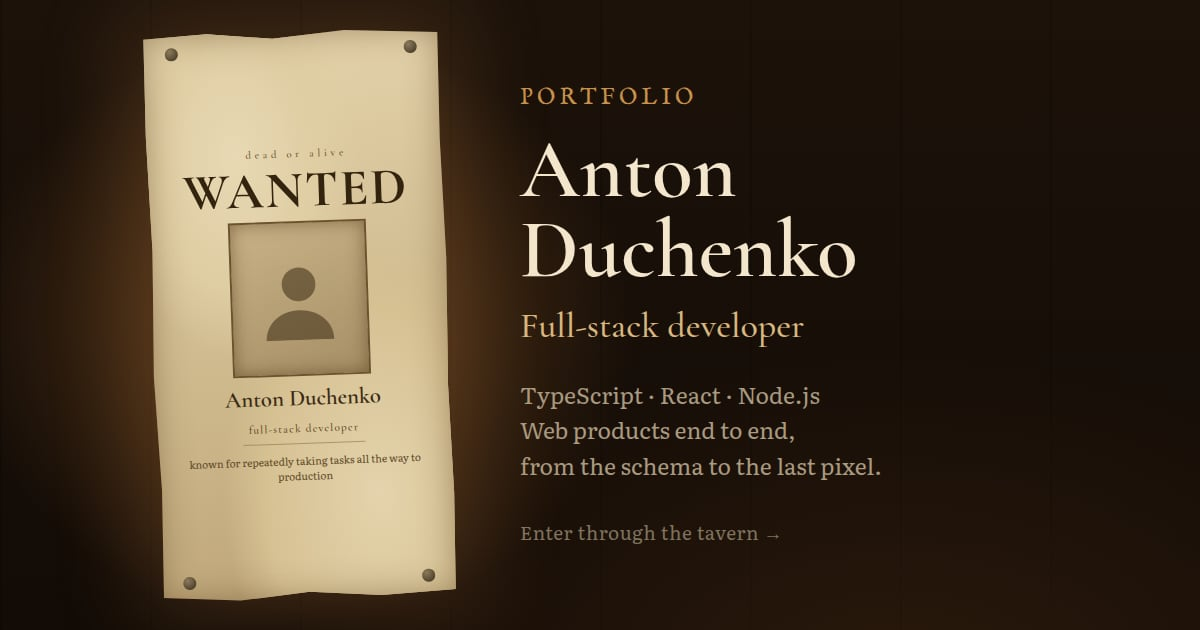
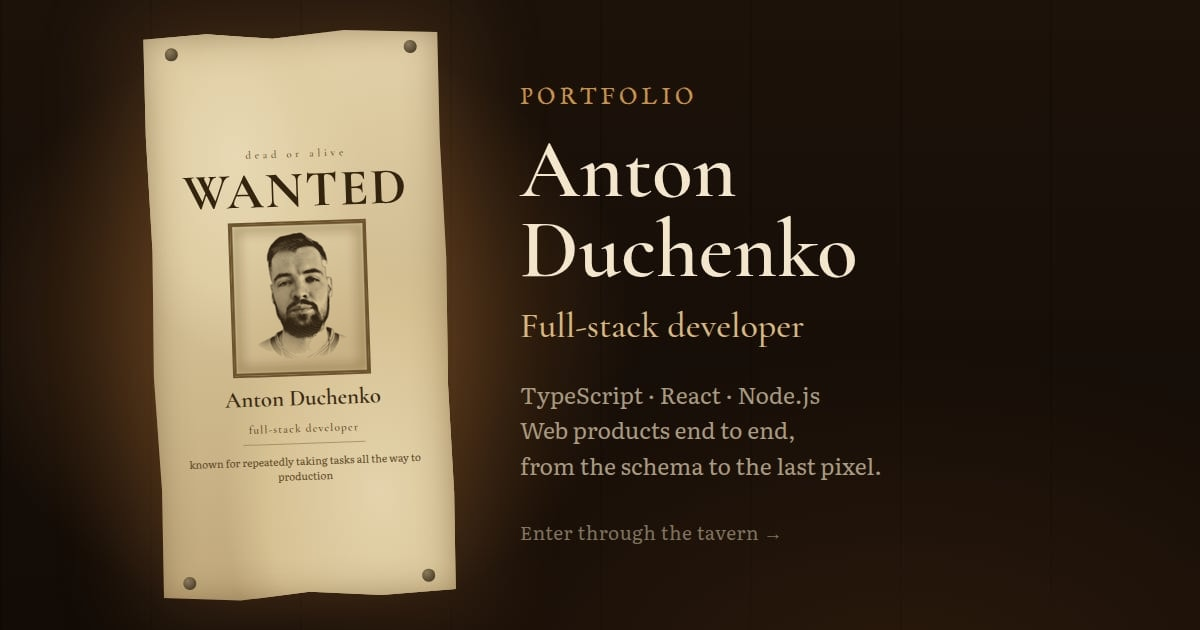
Engrave the WANTED portrait from Anton's photo (poster, hero frame, link preview); drop the pull-request count from the Binary Studio entry

Changed region(s): [[0.185, 0.3317, 0.3083, 0.6032]]

diff --git a/index.html b/index.html
@@ -155,12 +155,8 @@
       <div id="poster">
         <div class="top">dead or alive</div>
         <p class="title">WANTED</p>
-        <div class="face">
-          <svg viewBox="0 0 64 64" fill="#3a2a14" aria-hidden="true">
-            <circle cx="32" cy="21" r="13"/>
-            <path d="M6 64c0-14 12-23 26-23s26 9 26 23z"/>
-          </svg>
-        </div>
+        <!-- engraved from a photo by scripts/portrait/engrave.mjs; the photo itself is not published -->
+        <div class="face"><img src="portrait.webp" alt="" decoding="async"></div>
         <p class="name">Anton Duchenko</p>
         <p class="role">full-stack developer</p>
         <div class="rule"></div>
@@ -244,9 +240,7 @@
      </div>
     <!-- the poster's sketch, carried over from the scene -->
     <figure class="mugshot" aria-hidden="true">
-      <div class="frame">
-        <svg viewBox="0 0 64 64"><circle cx="32" cy="21" r="13"/><path d="M6 64c0-14 12-23 26-23s26 9 26 23z"/></svg>
-      </div>
+      <div class="frame"><img src="portrait.webp" alt="" decoding="async"></div>
       <figcaption>Last seen shipping to production</figcaption>
     </figure>
     </div>
@@ -328,7 +322,6 @@
           <p class="when">Aug 2025 — now</p>
           <h3>Full-stack developer <span>· Binary Studio</span></h3>
           <ul>
-            <li>290+ pull requests across ~280 tickets in a team of ~10 — the second-highest contributor.</li>
             <li>Rebuilt the multi-step checkout: price and margin sync with change confirmation, Stripe PaymentIntent recalculation, live stock checks before payment, coupons and partial refunds reflected in invoices.</li>
             <li>Algolia search for products, pharmacies and FAQ, with change-gated sync and Inngest reindex jobs.</li>
             <li>Logistics: same-day courier delivery, DHL shipments and labels, order tracking, click and collect, SMS notifications.</li>

diff --git a/src/site/site.css b/src/site/site.css
@@ -82,9 +82,9 @@ body.landed .candlelight.on{opacity:1;animation:glow 3.2s ease-in-out infinite a
   display:grid;grid-template-columns:minmax(0,1fr) auto;gap:clamp(30px,5vw,80px);align-items:center}
 /* the poster's portrait, carried over from the scene */
 .mugshot{margin:0;width:clamp(220px,22vw,320px);transform:rotate(1.6deg)}
-.mugshot .frame{aspect-ratio:1/1.12;display:grid;place-items:center;border:6px double rgba(91,68,39,.75);
-  background:linear-gradient(160deg,#cdb68a,#a89067);box-shadow:inset 0 0 40px rgba(70,45,15,.55),0 18px 30px rgba(70,45,15,.25)}
-.mugshot svg{width:60%;fill:#3a2a14;opacity:.55}
+.mugshot .frame{aspect-ratio:1/1.12;overflow:hidden;border:6px double rgba(91,68,39,.75);
+  background:linear-gradient(160deg,#e2d1a8,#c9b285);box-shadow:inset 0 0 40px rgba(70,45,15,.4),0 18px 30px rgba(70,45,15,.25)}
+.mugshot img{display:block;width:100%;height:100%}             /* the poster's engraving, same file */
 .mugshot figcaption{margin-top:12px;text-align:center;font-family:var(--fell);font-size:15px;letter-spacing:.08em;color:var(--ink-soft)}
 .sheet .kicker{font-family:var(--fell);font-size:clamp(15px,1.8vw,20px);letter-spacing:.2em;color:var(--ink-soft);margin:0 0 10px}
 h1.name{font-family:var(--display);font-weight:700;font-size:clamp(54px,8.6vw,132px);line-height:.9;

diff --git a/src/styles.css b/src/styles.css
@@ -111,9 +111,10 @@ input[type=range]{width:100%;height:16px;margin:0;accent-color:#c98a3c;backgroun
 #poster .title{font-size:9cqh;font-weight:700;letter-spacing:.04em;margin:0;line-height:.86;
   color:#33240f;text-shadow:0 1px 0 rgba(255,245,220,.5)}
 #poster .face{width:52%;aspect-ratio:1/1.12;border:.5cqh solid #6b5330;
-  background:linear-gradient(160deg,#c9b287,#a68f66);display:grid;place-items:center;
-  box-shadow:inset 0 0 3cqh rgba(70,45,15,.5)}
-#poster .face svg{width:62%;opacity:.55}
+  background:linear-gradient(160deg,#e2d1a8,#c9b285);overflow:hidden;
+  box-shadow:inset 0 0 3cqh rgba(70,45,15,.35)}
+/* the engraving: ink lines on a transparent ground, the frame's paper shows through */
+#poster .face img{display:block;width:100%;height:100%}
 #poster .name{font-size:4cqh;font-weight:600;margin:0}
 #poster .role{font-size:2cqh;color:#5d4726;margin:0;letter-spacing:.1em}
 #poster .rule{width:46%;height:1px;background:#8a7146;opacity:.6}

diff --git a/tests/smoke.spec.ts b/tests/smoke.spec.ts
@@ -145,7 +145,7 @@ test('replaying the scene silences the innkeeper until the next landing', async 
 
 test('linked files exist', async ({ request }) => {
   for (const [path, type] of [
-    ['Anton-Duchenko-CV.pdf', 'application/pdf'], ['og.jpg', 'image/jpeg'],
+    ['Anton-Duchenko-CV.pdf', 'application/pdf'], ['og.jpg', 'image/jpeg'], ['portrait.webp', 'image/webp'],
     ['icon.svg', 'image/svg+xml'], ['apple-touch-icon.png', 'image/png'], ['sitemap.xml', 'xml'],
     ['models/forest.glb', ''], ['models/low/forest.glb', ''], ['models/narrator.glb', ''],
     ['audio/forest.mp3', ''], ['audio/voice/line0.mp3', ''], ['audio/narrator/intro.mp3', '']

diff --git a/CLAUDE.md b/CLAUDE.md
@@ -22,7 +22,7 @@ Repository:
 - `assets-src/` — raw sources, committed but never shipped: `kits/` (Quaternius glTF
   exports incl. `Character/`; two KayKit rocks), `audio/` (original freesound recordings).
   See its README.
-- `scripts/` — build tools (`assets/`, `voice/`). `docs/` — spec, prototype, voice script.
+- `scripts/` — build tools (`assets/`, `voice/`, `portrait/`). `docs/` — spec, prototype, voice script.
 
 `src/` layout:
 
@@ -63,6 +63,12 @@ Repository:
   (one file per kit, models as named root nodes): simplification to budget, 1K WebP
   textures, meshopt. Fails the build if a budget is exceeded. Writes `manifest.json`
   (tris + bounds per model) — use it for placement numbers.
+- `scripts/portrait/engrave.mjs` — the WANTED portrait (`public/portrait.webp`: the poster's
+  face box and the hero frame, one file so the handover stays seamless) engraved from Anton's
+  photo: line hatching bent round the form, cross-hatching in the shadows, an oval vignette.
+  `node scripts/portrait/engrave.mjs <photo> [--preview <png>]`. The photo is never committed
+  or published (his choice: a drawing made from it, not the photo). `og.jpg` has no generator:
+  the same engraving was composited into its poster's frame by hand.
 - `scripts/voice/` — `generate.mjs` synthesised the placeholder voices (Kokoro, offline);
   `elevenlabs.mjs` voices the innkeeper through the ElevenLabs API. Own `package.json`, so
   CI never installs them. **Both overwrite the real recordings** (`generate` writes the walk
